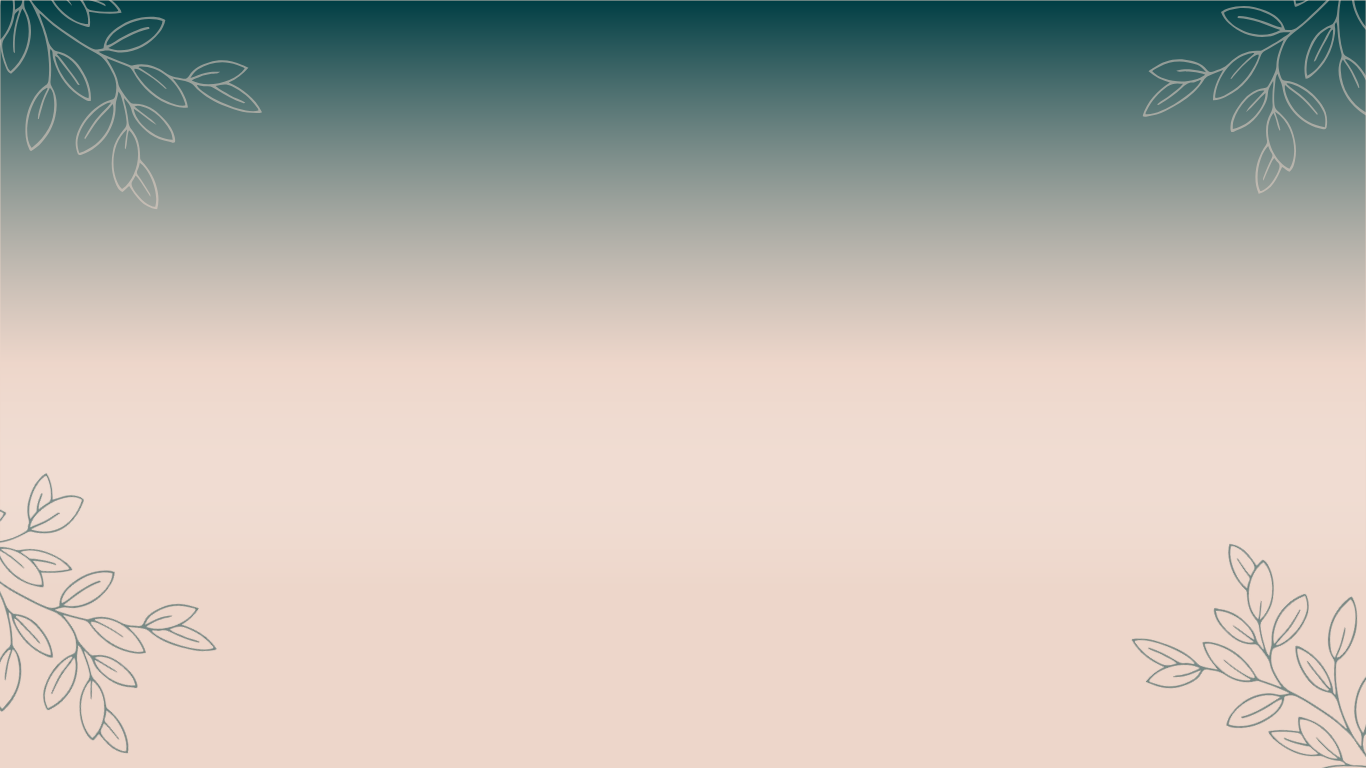
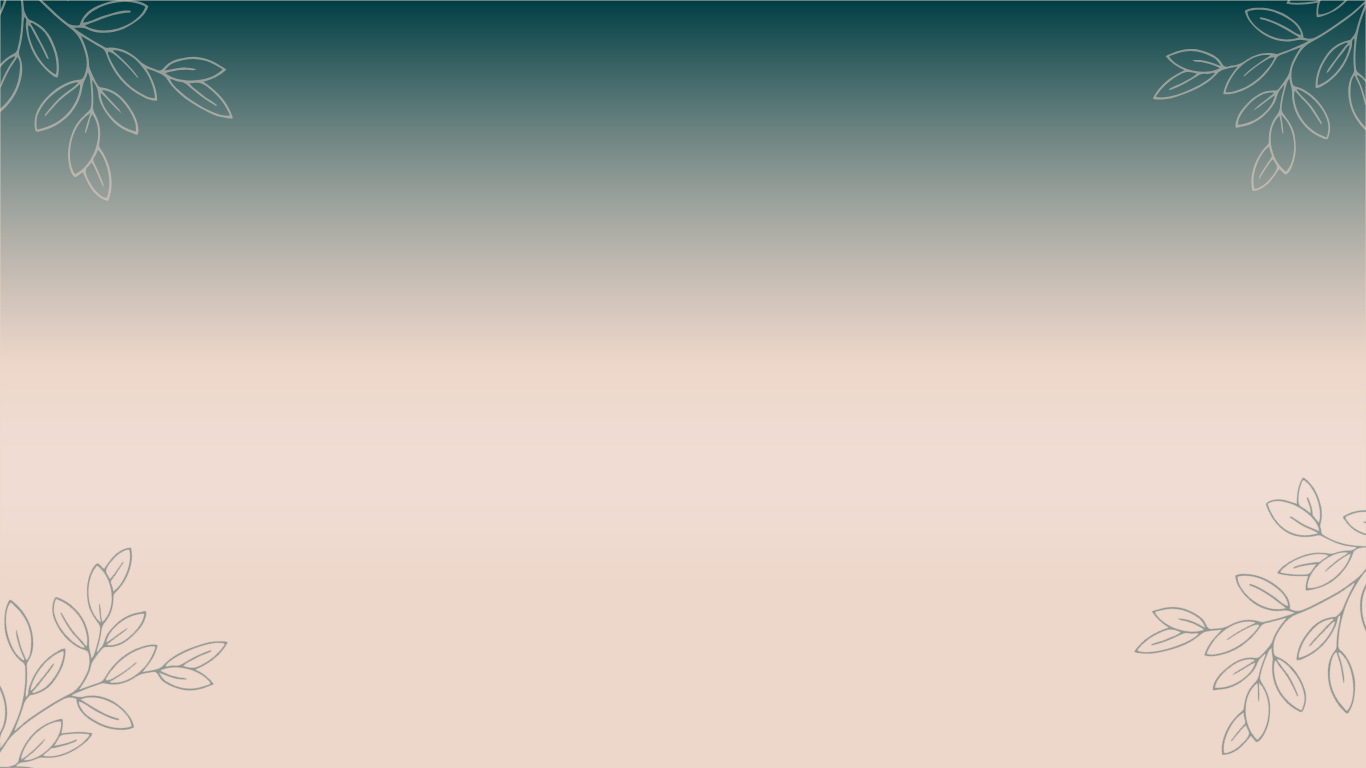
pequeñas mejoras de las section trabajadas

diff --git a/index.html b/index.html
@@ -3,7 +3,11 @@
 <head>
   <meta charset="UTF-8">
   <meta name="viewport" content="width=device-width, initial-scale=1.0">
-  <title>Casita Anem</title>
+  <!--!Metaetiquetas SEO-->
+  <meta name="description" content="Alquiler vacacional en Dina Huapi, Patagonia. Disfruta de la naturaleza y comodidad en Casita Anem, tu refugio con vista al Cerro Leones y cercano al Lago Nahuel Huapi.">
+  <meta name="keywords" content="alquiler vacacional, cabaña Patagonia, Dina Huapi, Bariloche, turismo Río Negro, Cerro Leones, Lago Nahuel Huapi, alojamiento naturaleza">
+  <!--!Título SEO-->
+  <title>Casita Anem - Alquiler Vacacional en Dina Huapi, Patagonia</title>
   <!--!Link bootstrap-->
   <link href="https://cdn.jsdelivr.net/npm/bootstrap@5.3.0/dist/css/bootstrap.min.css" rel="stylesheet">
   <!--!Link Cs-->
@@ -14,11 +18,16 @@
   <link href="https://fonts.googleapis.com/css2?family=Fleur+De+Leah&family=Playfair+Display:ital,wght@0,400..900;1,400..900&display=swap" rel="stylesheet">
 </head>
 <!--TODO: hacer un boton que suba hacia arriba de toda la pag? quizas abajo a a la derecha-->
+<!--///TODO: Revisar rutas de las imagenes, algunas estan usando rutas que van a la raiz del servidor, mejor usar rutas relativas -->
+<!--///TODO: Herramientas como ImageOptim o Squoosh para mejorar el tiempo de carga? -->
+<!--///TODO: `description` y `keywords` para mejorar el posicionamiento en buscadores-->
+<!--///TODO: Mejorar el head y hacer atractivo el title-->
+<!--///TODO:  "Casita Anem - Alquiler Vacacional en Dina Huapi, Patagonia". no será mas descriptivo como titulo de la pag? -->
 <body>
   <!--* Header: Título, logo y el botón principal. -->
   <header class="text-center py-5 section-header" id="header-anem">
     <h2 class="playfair-display-title">DINA HUAPI - RIO NEGRO</h2>
-    <img src="/brand/Logo-anem-recolored.png" alt="logo anem" class="logo-header img-fluid">
+    <img src="brand/Logo-anem-recolored.png" alt="logo anem" class="logo-header img-fluid">
     <h1 class="fleur-de-leah">Casita Anem</h1>
     <p class="playfair-display header-p">Tu refugio en la Patagonia</p>
     <button class="btn btn-primary btn-conocenos">
@@ -27,10 +36,12 @@
   </header>
 
   <!--*Navbar: Visible en las secciones 1 a 6 (no en el header)-->
-  <nav class="navbar navbar-expand-lg navbar-hidden" id="navbar">
+   <!--///TODO: los contrastes de color cumplan con WCAG?, especialmente en el navbar y botones.--> 
+  <!--///TODO: Una alternativa para el movimiento del navbar es usar `IntersectionObserver` para detectar cuando el header sale de la vista, seria más preciso?--> 
+  <nav class="navbar navbar-expand-lg " id="navbar">  <!-- elimine la clase navbar-hidden -->
     <div class="container-fluid">
       <a class="navbar-brand" href="#header-anem">
-        <img src="/brand/Logo-anem-recolored.png" alt="Logo Anem" width="55" height="55" class="d-inline-block align-text-center">
+        <img src="brand/Logo-anem-recolored.png" alt="Logo Anem" width="55" height="55" class="d-inline-block align-text-center">
         Casita Anem </a>
       <button class="navbar-toggler" type="button" data-bs-toggle="collapse" data-bs-target="#navbarNavAltMarkup" aria-controls="navbarNavAltMarkup" aria-expanded="false" aria-label="Toggle navigation">
         <span class="navbar-toggler-icon"></span>
@@ -49,6 +60,10 @@
   </nav>
 
   <!--* Section 1: Rincón Patagónico -->
+  <!--TODO: Sec1. Debería hacer un modal con las imagenes en el desktop? -->
+  <!--///TODO: sec1. Acomodar el margin o el padding de el h1 rincon patagonico-->
+  <!--///TODO: Sec1. Texto descriptivo del carrousel dice Fina Huapi x? -->
+  <!--///TODO: sec1. las imágenes en desktop usan `rounded-circle`, lo que las hace redondas, pero en mobile son rectangulares. Considerar mantener una forma consistente o justificar el cambio?-->
   <section id="rincon-patagonico" class="py-5 s1-rincon-patagonico">
     <div class="container text-center">
   
@@ -69,16 +84,16 @@
           <!-- Imágenes del carrusel -->
           <div class="carousel-inner">
             <div class="carousel-item active">
-              <img src="assets/images/dh-1-marco.png" class="d-block w-100 rounded car-mobile" alt="Dina huapi 1">
+              <img src="assets/images/dh-1-marco.png" class="d-block w-100 rounded car-mobile" alt="Vista del aire de la costa de Dina Huapi">
             </div>
             <div class="carousel-item">
-              <img src="assets/images/dh-3-marco.png" class="d-block w-100 rounded car-mobile" alt="Dina Huapi 2">
+              <img src="assets/images/dh-3-marco.png" class="d-block w-100 rounded car-mobile" alt="Vista del aire de la ciudad de Dina Huapi">
             </div>
             <div class="carousel-item">
-              <img src="assets/images/dh-4-marco.png" class="d-block w-100 rounded car-mobile" alt="Dina Huapi 3">
+              <img src="assets/images/dh-4-marco.png" class="d-block w-100 rounded car-mobile" alt="Paisaje desde la costa de Dina Huapi con flores">
             </div>
             <div class="carousel-item">
-              <img src="assets/images/dh-5-marco.png" class="d-block w-100 rounded car-mobile" alt="Dina Huapi 3">
+              <img src="assets/images/dh-5-marco.png" class="d-block w-100 rounded car-mobile" alt="Vista del atardecer de la playa de Dina Huapi">
             </div>
           </div>
   
@@ -104,13 +119,13 @@
         <!--? Imágenes estáticas en desktop -->
         <div class="row mt-4">
           <div class="col-md-4">
-            <img src="assets/images/dh-1-marco.png" alt="Imagen 1" class="img-fluid rounded-circle">
+            <img src="assets/images/dh-1-marco.png" alt="Vista del aire de la costa de Dina Huapi" class="img-fluid rounded-circle">
           </div>
           <div class="col-md-4">
-            <img src="assets/images/dh-4-marco.png" alt="Imagen 3" class="img-fluid rounded-circle">
+            <img src="assets/images/dh-4-marco.png" alt="Paisaje desde la costa de Dina Huapi con flores" class="img-fluid rounded-circle">
           </div>
           <div class="col-md-4">
-            <img src="assets/images/dh-5-marco.png" alt="Imagen 4" class="img-fluid rounded-circle">
+            <img src="assets/images/dh-5-marco.png" alt="Vista del atardecer de la playa de Dina Huapi" class="img-fluid rounded-circle">
           </div>
         </div>
   
@@ -122,12 +137,14 @@
   </section>
 
   <!--* Section 2: Nuestra Casa -->
-  <!--TODO: Resolver el alto de las imagenes de la version mobile, se mueve raro cuando cambia el carrousel-->
+  <!--TODO: ver el background del fondo desktop, hay mucha diferencia entre la section 1 y la 2 --> 
+  <!--///TODO: Ver margin o padding del h1 section 2-->
+  <!--///TODO: En el modal hay que asegurarse de que todas las imágenes tengan la clase `clickable-img` para que funcionen correctamente. -->
   <section class="bg-light py-5 s2-rincon-patagonico" id="nuestra-casa">
     <div class="container">
       <h2 class="text-center mb-4 playfair-display-title">Nuestra Casa</h2>
   
-      <!-- Versión Desktop -->
+      <!--! Versión Desktop -->
       <div class="row text-center d-none d-md-flex">
         <div class="col-md-3">
           <img src="assets/images/casa4.jpg" alt="Casa entrada" class="img-fluid clickable-img">
@@ -156,7 +173,7 @@
       </div>
       
   
-      <!-- Versión Mobile -->
+      <!--! Versión Mobile -->
       <div id="casaCarousel" class="carousel slide d-md-none" data-bs-ride="carousel">
         <div class="carousel-inner">
           <div class="carousel-item active text-center">
@@ -273,7 +290,8 @@
 
 
  <!--* Section 5: Experiencias huespedes -->
- <!--TODO: Desarrollar el algoritmo para captar el comentario de formulario y mostrarlo en la lista de comentarios-->
+  <!--TODO: Desarrollar el algoritmo para captar el comentario de formulario y mostrarlo en la lista de comentarios-->
+ <!--TODO: Al haber dos formularios con ID diferentes, complica el manejo de envios? Creo que es mejor usar clases responsivas en un unico formulario.-->
  <section class="bg-light py-5" id="experiencias-huespedes">
   <div class="container">
     <h2 class="text-center mb-4">Experiencias de nuestros visitantes</h2>
@@ -381,6 +399,7 @@
  <!--* Section 6: "Contacto y reservas" -->
   <!--TODO: Resolver el envío de la info del formulario de contacto-->
   <!--TODO: Agregar iconos y armar los enlaces de contacto-->
+  <!--TODO: validacion del lado del cliente? Creo que deberia agregar validaciones con Js-->
  <section class="bg-light py-5" id="contacto-reservas">
   <div class="container">
     <h2 class="text-center">Contacto y reservas</h2>
@@ -469,11 +488,28 @@
 </div>
 
 
-
-
 <!--!Script bootstrap!-->
   <script src="https://cdn.jsdelivr.net/npm/bootstrap@5.3.0/dist/js/bootstrap.bundle.min.js"></script>
 <!--!Script propios!-->
   <script src="scripts.js"></script>
+  <!--!Script title-->
+  <script>
+    const titulos = [
+      "🏡 Casita Anem",
+      "✨ Alquiler Vacacional",
+      "🏔 Dina Huapi",
+      "🌲 Rio Negro",
+      "🌿 Patagonia Argentina",
+    ];
+  
+    let indice = 0;
+
+    function rotarTitulo() {
+      document.title = titulos[indice];
+      indice = (indice + 1) % titulos.length; 
+    }
+
+    setInterval(rotarTitulo, 2500);
+  </script>
 </body>
 </html>

diff --git a/styles/main.css b/styles/main.css
@@ -1,3 +1,6 @@
+
+/*TODO: Hay algunas clases que no se están utilizando? Hay que eliminarlas
+/*TODO: Hay una linea blanca entre sections que se ve horrible.
                       /*? Sobreescritura box-sizing bootstrap*/
 .selector-for-some-widget {
     box-sizing: content-box;
@@ -68,7 +71,7 @@
 
   /**background header mobile*/
 header.section-header{
-  background-image: url("/assets/images/bgmobile-header-anem.png");
+  background-image: url("/assets/images/bgmobile-header-anem.webp");
   background-size: cover;
   background-repeat: no-repeat;
   background-position: center;
@@ -85,14 +88,14 @@ header.section-header{
      /*! background desktop*/
    @media (min-width: 768px) {
     .section {
-      background-image: url("/assets/images/gbdesktop-header-anem.png");
+      background-image: url("assets/images/gbdesktop-header-anem.png");
     }
   }
 
 
 @media (min-width: 768px) {
   header.section-header {
-    background-image: url("/assets/images/gbdesktop-header-anem.png"); /* Fondo desktop */
+    background-image: url("/assets/images/gbdesktop-header-anem.webp"); /* Fondo desktop */
   }
 }
 
@@ -152,13 +155,40 @@ header.section-header .btn-conocenos:hover {
 
 /*TODO NAVBAR: CHEQUEAR FONDO Y COLOR DE LA TRANSPARENCIA,SI NO SE PIERDE EN EL CONTENIDO*/
                              /*? Navbar style */
+ #navbar {
+   background-color: #d4907ca2;
+   position: fixed;
+   top: 0;
+   width: 100%;
+   z-index: 1000;
+   transition: transform 0.3s ease-out, opacity 0.3s ease-out; /* Unificamos transiciones */
+   margin-top: 0; /* Eliminamos el margen negativo */
+   transform: translateY(-100%); /* Estado inicial oculto */
+   opacity: 0; /* Oculto inicialmente */
+  }        
+.navbar-visible {
+   transform: translateY(0) !important;
+   opacity: 1 !important;
+  }
+                            
+.navbar {
+   padding-bottom: 0;
+   margin-bottom: 0;
+  }
+                            
+nav a.navbar-brand {
+   font-family: "Fleur De Leah", serif;
+   font-size: 2.2rem;
+  }
+
+/*
 #navbar {
   background-color: #d4907ca2;
-    position: fixed; /* Mantener fijo en la parte superior */
-    top: 0; /* Pegarlo a la parte superior */
-    width: 100%; /* Abarcar todo el ancho de la página */
-    z-index: 1000; /* Asegurarse de que esté por encima de otros elementos */
-    transition: transform 0.2s ease-in-out, opacity 0.2s ease-in-out; /* Animaciones suaves para aparecer/desaparecer */
+    position: fixed; 
+    top: 0; 
+    width: 100%; 
+    z-index: 1000; 
+    transition: transform 0.2s ease-in-out, opacity 0.2s ease-in-out; 
     margin-top: -10px;
 }
 
@@ -174,10 +204,11 @@ nav a.navbar-brand {
 
 .navbar-hidden {
   display: none;
-  transform: translateY(-100%); /* Mover hacia arriba fuera de la pantalla */
-  opacity: 0; /* Ocultar visualmente */
+  transform: translateY(-100%); 
+  opacity: 0;  Ocultar visualmente 
+  transition: transform 0.3s ease-out;
 }
-
+*/
 
                          /*? Section 1: Rincón Patagónico */
 
@@ -185,7 +216,7 @@ nav a.navbar-brand {
       /*! background mobile*/
 section.s1-rincon-patagonico {
 
-  background-image: url("/assets/images/bgmobile1.png");
+  background-image: url("/assets/images/bgmobile1.webp");
   background-size: cover;
   background-repeat: no-repeat;
   background-position: center;
@@ -195,12 +226,12 @@ section.s1-rincon-patagonico {
   justify-content: center; 
   align-items: center; 
   text-align: center; 
-  color: #72433c; /
+  color: #72433c; 
 }
       /*! background desktop*/
    @media (min-width: 768px) {
     section.s1-rincon-patagonico {
-      background-image: url("/assets/images/bgdesktop1.png");
+      background-image: url("/assets/images/bgdesktop1.webp");
 
     }
   }
@@ -232,6 +263,7 @@ p.p-s1-mobile {
   section.s1-rincon-patagonico h2 {
   font-family: "Playfair Display", serif;
   font-size: 3rem;
+  margin-top: 1.5rem;
   }
 }
 
@@ -253,16 +285,20 @@ p.p-s1-mobile {
         align-items: center; 
         text-align: center; 
       }
+
        /*! background desktop*/
-         @media (min-width: 768px) {
-          section.s2-rincon-patagonico {
-            background-image: url("/assets/images/bgdesktop2.png");
-      
-          }
+       @media (min-width: 768px) {
+        section.s2-rincon-patagonico {
+          background-image: url("/assets/images/bgdesktop2.webp");
         }
-         section.s2-rincon-patagonico h2{
-          font-size: 2.5rem;
-         }
+      }
+      section.s2-rincon-patagonico h2{
+        font-size: 2.5rem;
+        margin-top: 1.5rem;
+        color: #55312c
+       }
+
+
        /*! Carrousel imganes de la casa*/
        @media (max-width: 767px) {
         /* Contenedor fijo del carrusel */
@@ -302,5 +338,5 @@ p.p-s1-mobile {
           z-index: 10;
         }
       }
-      
-      
+
+                         /*? Section 3: Donde estamos*/

diff --git a/scripts.js b/scripts.js
@@ -22,7 +22,50 @@ document.addEventListener("DOMContentLoaded", () => {
     window.addEventListener("scroll", updateNavbarVisibility);
 });
 */
+
+/////TODO: - El código del navbar podría simplificarse usando `IntersectionObserver` en lugar de calcular manualmente las posiciones.
+
+
 //!Navbar 
+
+const header = document.getElementById('header-anem');
+const navbar = document.getElementById('navbar');
+
+const observerOptions = {
+  root: null,
+  rootMargin: '0px',
+  threshold: 0.1 
+};
+
+const observerCallback = (entries) => {
+  entries.forEach(entry => {
+    if (!entry.isIntersecting) {
+      navbar.classList.add('navbar-visible');
+      navbar.classList.remove('navbar-hidden');
+    } else {
+      navbar.classList.remove('navbar-visible');
+      navbar.classList.add('navbar-hidden');
+    }
+  });
+};
+
+const observer = new IntersectionObserver(observerCallback, observerOptions);
+observer.observe(header);
+
+//! Cerrar navbar al hacer clic en un enlace 
+document.querySelectorAll('#navbarNavAltMarkup .nav-link').forEach(link => {
+    link.addEventListener('click', () => {
+      const navbarCollapse = document.getElementById('navbarNavAltMarkup');
+      
+      // Cierra el menú colapsado usando Bootstrap
+      if (navbarCollapse.classList.contains('show')) {
+        const bsCollapse = new bootstrap.Collapse(navbarCollapse, { toggle: false });
+        bsCollapse.hide();
+      }
+    });
+  });
+
+/*
 document.addEventListener("DOMContentLoaded", () => {
     const navbar = document.getElementById("navbar");
     const sections = document.querySelectorAll("section"); // Todas las secciones
@@ -47,6 +90,7 @@ document.addEventListener("DOMContentLoaded", () => {
     window.addEventListener("scroll", updateNavbarVisibility);
     updateNavbarVisibility(); // Ejecutar al inicio
 });
+*/
 
 //! Modal Section 2 desktop
 document.addEventListener("DOMContentLoaded", function () {
